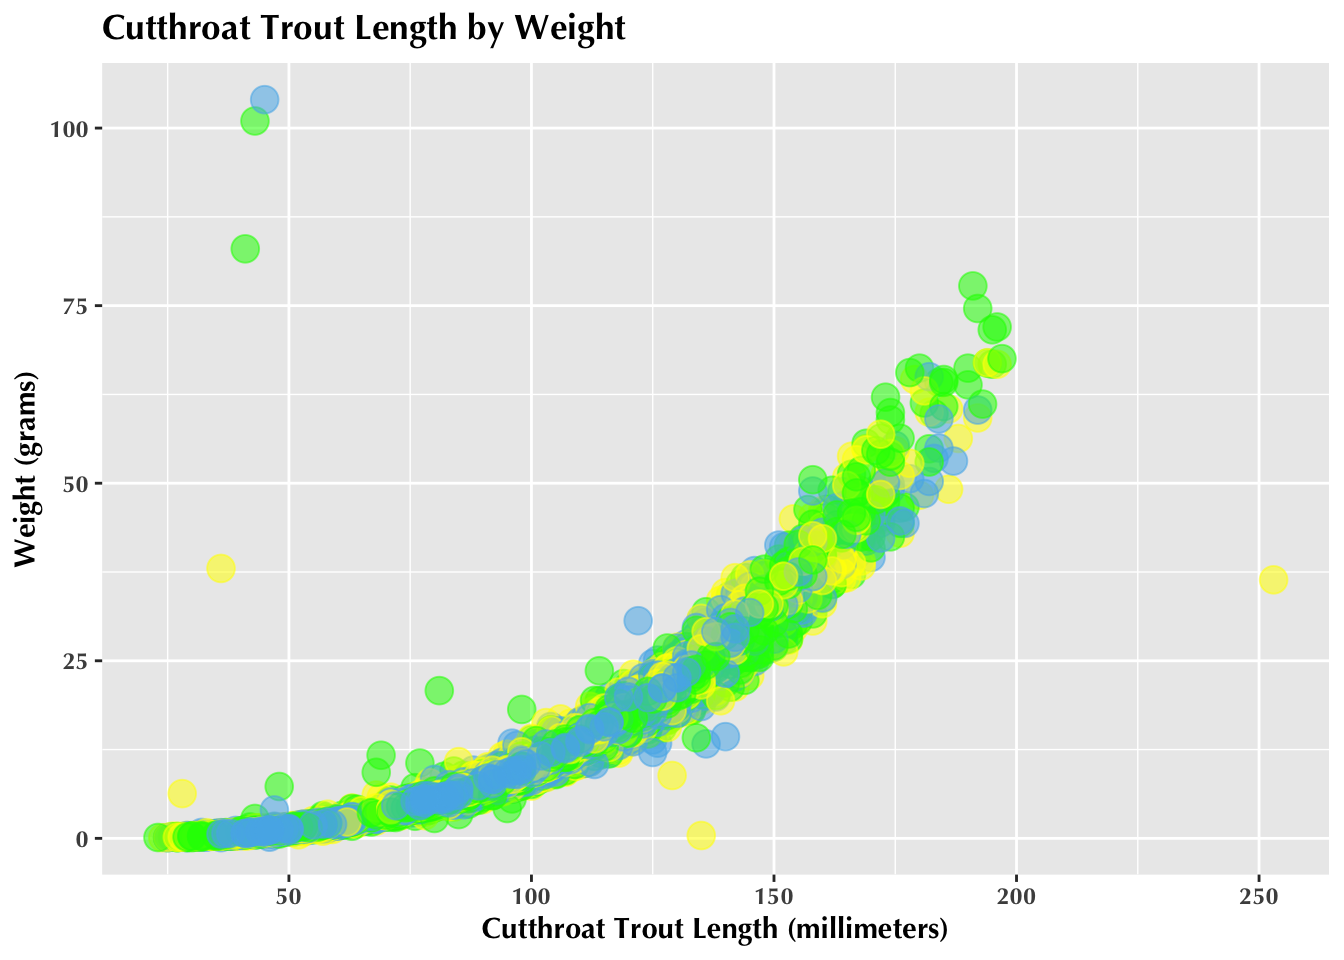
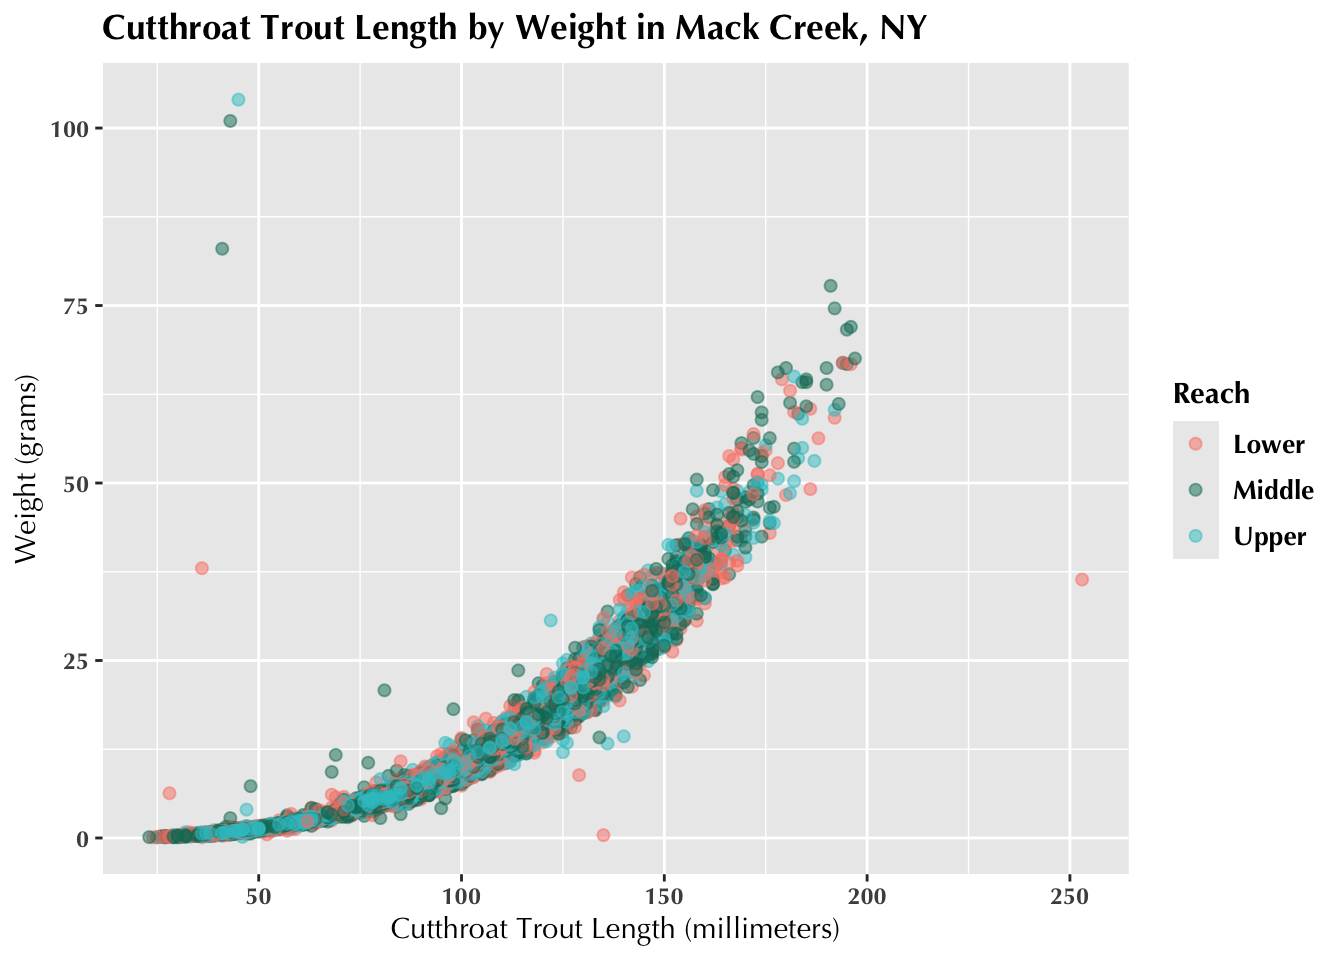
played around with some of the plot settings

diff --git a/docs/EDS221_Day2_Tasks_P2.html b/docs/EDS221_Day2_Tasks_P2.html
@@ -132,10 +132,14 @@ The following objects are masked from 'package:stats':
 
     chisq.test, fisher.test</code></pre>
 </div>
+<div class="sourceCode cell-code" id="cb7"><pre class="sourceCode r code-with-copy"><code class="sourceCode r"><span id="cb7-1"><a href="#cb7-1" aria-hidden="true" tabindex="-1"></a><span class="fu">library</span>(extrafont)</span></code><button title="Copy to Clipboard" class="code-copy-button"><i class="bi"></i></button></pre></div>
+<div class="cell-output cell-output-stderr">
+<pre><code>Registering fonts with R</code></pre>
+</div>
 </div>
 <div class="cell">
-<div class="sourceCode cell-code" id="cb7"><pre class="sourceCode r code-with-copy"><code class="sourceCode r"><span id="cb7-1"><a href="#cb7-1" aria-hidden="true" tabindex="-1"></a><span class="co"># Load in data</span></span>
-<span id="cb7-2"><a href="#cb7-2" aria-hidden="true" tabindex="-1"></a>mack_verts <span class="ot">&lt;-</span> <span class="fu">read_csv</span>(here<span class="sc">::</span><span class="fu">here</span>(<span class="st">"data"</span>, <span class="st">"AS00601.csv"</span>))</span></code><button title="Copy to Clipboard" class="code-copy-button"><i class="bi"></i></button></pre></div>
+<div class="sourceCode cell-code" id="cb9"><pre class="sourceCode r code-with-copy"><code class="sourceCode r"><span id="cb9-1"><a href="#cb9-1" aria-hidden="true" tabindex="-1"></a><span class="co"># Load in data</span></span>
+<span id="cb9-2"><a href="#cb9-2" aria-hidden="true" tabindex="-1"></a>mack_verts <span class="ot">&lt;-</span> <span class="fu">read_csv</span>(here<span class="sc">::</span><span class="fu">here</span>(<span class="st">"data"</span>, <span class="st">"AS00601.csv"</span>))</span></code><button title="Copy to Clipboard" class="code-copy-button"><i class="bi"></i></button></pre></div>
 <div class="cell-output cell-output-stderr">
 <pre><code>Rows: 32209 Columns: 18
 ── Column specification ────────────────────────────────────────────────────────
@@ -147,7 +151,7 @@ date (1): SAMPLEDATE
 ℹ Use `spec()` to retrieve the full column specification for this data.
 ℹ Specify the column types or set `show_col_types = FALSE` to quiet this message.</code></pre>
 </div>
-<div class="sourceCode cell-code" id="cb9"><pre class="sourceCode r code-with-copy"><code class="sourceCode r"><span id="cb9-1"><a href="#cb9-1" aria-hidden="true" tabindex="-1"></a>mack_verts</span></code><button title="Copy to Clipboard" class="code-copy-button"><i class="bi"></i></button></pre></div>
+<div class="sourceCode cell-code" id="cb11"><pre class="sourceCode r code-with-copy"><code class="sourceCode r"><span id="cb11-1"><a href="#cb11-1" aria-hidden="true" tabindex="-1"></a>mack_verts</span></code><button title="Copy to Clipboard" class="code-copy-button"><i class="bi"></i></button></pre></div>
 <div class="cell-output cell-output-stdout">
 <pre><code># A tibble: 32,209 × 18
    DBCODE ENTITY  YEAR SITECODE SECTION REACH  PASS UNITNUM UNITTYPE VERT_INDEX
@@ -166,23 +170,23 @@ date (1): SAMPLEDATE
 # ℹ 8 more variables: PITNUMBER &lt;dbl&gt;, SPECIES &lt;chr&gt;, LENGTH1 &lt;dbl&gt;,
 #   LENGTH2 &lt;dbl&gt;, WEIGHT &lt;dbl&gt;, CLIP &lt;chr&gt;, SAMPLEDATE &lt;date&gt;, NOTES &lt;chr&gt;</code></pre>
 </div>
-<div class="sourceCode cell-code" id="cb11"><pre class="sourceCode r code-with-copy"><code class="sourceCode r"><span id="cb11-1"><a href="#cb11-1" aria-hidden="true" tabindex="-1"></a><span class="co"># Clean names</span></span>
-<span id="cb11-2"><a href="#cb11-2" aria-hidden="true" tabindex="-1"></a>mack_verts <span class="ot">&lt;-</span> mack_verts <span class="sc">%&gt;%</span> <span class="fu">clean_names</span>() </span></code><button title="Copy to Clipboard" class="code-copy-button"><i class="bi"></i></button></pre></div>
+<div class="sourceCode cell-code" id="cb13"><pre class="sourceCode r code-with-copy"><code class="sourceCode r"><span id="cb13-1"><a href="#cb13-1" aria-hidden="true" tabindex="-1"></a><span class="co"># Clean names</span></span>
+<span id="cb13-2"><a href="#cb13-2" aria-hidden="true" tabindex="-1"></a>mack_verts <span class="ot">&lt;-</span> mack_verts <span class="sc">%&gt;%</span> <span class="fu">clean_names</span>() </span></code><button title="Copy to Clipboard" class="code-copy-button"><i class="bi"></i></button></pre></div>
 </div>
 <div class="cell">
-<div class="sourceCode cell-code" id="cb12"><pre class="sourceCode r code-with-copy"><code class="sourceCode r"><span id="cb12-1"><a href="#cb12-1" aria-hidden="true" tabindex="-1"></a><span class="co"># Mess around with the data</span></span>
-<span id="cb12-2"><a href="#cb12-2" aria-hidden="true" tabindex="-1"></a>mc_wt_5 <span class="ot">&lt;-</span> mack_verts<span class="sc">$</span>weight[<span class="dv">5</span>]</span>
-<span id="cb12-3"><a href="#cb12-3" aria-hidden="true" tabindex="-1"></a>mc_wt_5</span></code><button title="Copy to Clipboard" class="code-copy-button"><i class="bi"></i></button></pre></div>
+<div class="sourceCode cell-code" id="cb14"><pre class="sourceCode r code-with-copy"><code class="sourceCode r"><span id="cb14-1"><a href="#cb14-1" aria-hidden="true" tabindex="-1"></a><span class="co"># Mess around with the data</span></span>
+<span id="cb14-2"><a href="#cb14-2" aria-hidden="true" tabindex="-1"></a>mc_wt_5 <span class="ot">&lt;-</span> mack_verts<span class="sc">$</span>weight[<span class="dv">5</span>]</span>
+<span id="cb14-3"><a href="#cb14-3" aria-hidden="true" tabindex="-1"></a>mc_wt_5</span></code><button title="Copy to Clipboard" class="code-copy-button"><i class="bi"></i></button></pre></div>
 <div class="cell-output cell-output-stdout">
 <pre><code>[1] 6.9</code></pre>
 </div>
-<div class="sourceCode cell-code" id="cb14"><pre class="sourceCode r code-with-copy"><code class="sourceCode r"><span id="cb14-1"><a href="#cb14-1" aria-hidden="true" tabindex="-1"></a>mc_length_8_20 <span class="ot">&lt;-</span> mack_verts<span class="sc">$</span>length1[(<span class="dv">8</span><span class="sc">:</span><span class="dv">20</span>)]</span>
-<span id="cb14-2"><a href="#cb14-2" aria-hidden="true" tabindex="-1"></a>mc_length_8_20</span></code><button title="Copy to Clipboard" class="code-copy-button"><i class="bi"></i></button></pre></div>
+<div class="sourceCode cell-code" id="cb16"><pre class="sourceCode r code-with-copy"><code class="sourceCode r"><span id="cb16-1"><a href="#cb16-1" aria-hidden="true" tabindex="-1"></a>mc_length_8_20 <span class="ot">&lt;-</span> mack_verts<span class="sc">$</span>length1[(<span class="dv">8</span><span class="sc">:</span><span class="dv">20</span>)]</span>
+<span id="cb16-2"><a href="#cb16-2" aria-hidden="true" tabindex="-1"></a>mc_length_8_20</span></code><button title="Copy to Clipboard" class="code-copy-button"><i class="bi"></i></button></pre></div>
 <div class="cell-output cell-output-stdout">
 <pre><code> [1] 131 103 117 100 127  99 111 149 102  53  58  58 105</code></pre>
 </div>
-<div class="sourceCode cell-code" id="cb16"><pre class="sourceCode r code-with-copy"><code class="sourceCode r"><span id="cb16-1"><a href="#cb16-1" aria-hidden="true" tabindex="-1"></a>mc_dates <span class="ot">&lt;-</span> mack_verts<span class="sc">$</span>sampledate</span>
-<span id="cb16-2"><a href="#cb16-2" aria-hidden="true" tabindex="-1"></a>mc_dates</span></code><button title="Copy to Clipboard" class="code-copy-button"><i class="bi"></i></button></pre></div>
+<div class="sourceCode cell-code" id="cb18"><pre class="sourceCode r code-with-copy"><code class="sourceCode r"><span id="cb18-1"><a href="#cb18-1" aria-hidden="true" tabindex="-1"></a>mc_dates <span class="ot">&lt;-</span> mack_verts<span class="sc">$</span>sampledate</span>
+<span id="cb18-2"><a href="#cb18-2" aria-hidden="true" tabindex="-1"></a>mc_dates</span></code><button title="Copy to Clipboard" class="code-copy-button"><i class="bi"></i></button></pre></div>
 <div class="cell-output cell-output-stdout">
 <pre><code>    [1] "1987-10-07" "1987-10-07" "1987-10-07" "1987-10-07" "1987-10-07"
     [6] "1987-10-07" "1987-10-07" "1987-10-07" "1987-10-07" "1987-10-07"
@@ -6631,9 +6635,9 @@ date (1): SAMPLEDATE
 <section id="create-a-salamander-plot-from-subset" class="level2">
 <h2 class="anchored" data-anchor-id="create-a-salamander-plot-from-subset">Create a salamander plot from subset</h2>
 <div class="cell">
-<div class="sourceCode cell-code" id="cb18"><pre class="sourceCode r code-with-copy"><code class="sourceCode r"><span id="cb18-1"><a href="#cb18-1" aria-hidden="true" tabindex="-1"></a><span class="co"># Subset the data set</span></span>
-<span id="cb18-2"><a href="#cb18-2" aria-hidden="true" tabindex="-1"></a>mc_salamanders <span class="ot">&lt;-</span> <span class="fu">subset</span>(mack_verts, species<span class="sc">==</span><span class="st">"DITE"</span>)</span>
-<span id="cb18-3"><a href="#cb18-3" aria-hidden="true" tabindex="-1"></a>mc_salamanders</span></code><button title="Copy to Clipboard" class="code-copy-button"><i class="bi"></i></button></pre></div>
+<div class="sourceCode cell-code" id="cb20"><pre class="sourceCode r code-with-copy"><code class="sourceCode r"><span id="cb20-1"><a href="#cb20-1" aria-hidden="true" tabindex="-1"></a><span class="co"># Subset the data set</span></span>
+<span id="cb20-2"><a href="#cb20-2" aria-hidden="true" tabindex="-1"></a>mc_salamanders <span class="ot">&lt;-</span> <span class="fu">subset</span>(mack_verts, species<span class="sc">==</span><span class="st">"DITE"</span>)</span>
+<span id="cb20-3"><a href="#cb20-3" aria-hidden="true" tabindex="-1"></a>mc_salamanders</span></code><button title="Copy to Clipboard" class="code-copy-button"><i class="bi"></i></button></pre></div>
 <div class="cell-output cell-output-stdout">
 <pre><code># A tibble: 11,758 × 18
    dbcode entity  year sitecode section reach  pass unitnum unittype vert_index
@@ -6652,10 +6656,10 @@ date (1): SAMPLEDATE
 # ℹ 8 more variables: pitnumber &lt;dbl&gt;, species &lt;chr&gt;, length1 &lt;dbl&gt;,
 #   length2 &lt;dbl&gt;, weight &lt;dbl&gt;, clip &lt;chr&gt;, sampledate &lt;date&gt;, notes &lt;chr&gt;</code></pre>
 </div>
-<div class="sourceCode cell-code" id="cb20"><pre class="sourceCode r code-with-copy"><code class="sourceCode r"><span id="cb20-1"><a href="#cb20-1" aria-hidden="true" tabindex="-1"></a><span class="co"># Plot the salamanders</span></span>
-<span id="cb20-2"><a href="#cb20-2" aria-hidden="true" tabindex="-1"></a><span class="fu">ggplot</span>(<span class="at">data=</span>mc_salamanders, <span class="fu">aes</span>(<span class="at">x =</span> length1, <span class="at">y =</span> weight)) <span class="sc">+</span></span>
-<span id="cb20-3"><a href="#cb20-3" aria-hidden="true" tabindex="-1"></a>  <span class="fu">geom_point</span>(<span class="fu">aes</span>(<span class="at">size =</span> <span class="fl">2.5</span>, <span class="at">alpha =</span> .<span class="dv">50</span>, <span class="at">color =</span> <span class="st">"orange"</span>)) <span class="sc">+</span></span>
-<span id="cb20-4"><a href="#cb20-4" aria-hidden="true" tabindex="-1"></a>  <span class="fu">labs</span>(<span class="at">title=</span> <span class="st">"Giant Pacific Salamander Snout Length vs Weight"</span>, <span class="at">x =</span> <span class="st">"Snought-Vent Length (millimeters)"</span>, <span class="at">y =</span> <span class="st">"Weight (grams)"</span>) <span class="sc">+</span> <span class="fu">theme</span>(<span class="at">legend.position=</span><span class="st">"none"</span>)</span></code><button title="Copy to Clipboard" class="code-copy-button"><i class="bi"></i></button></pre></div>
+<div class="sourceCode cell-code" id="cb22"><pre class="sourceCode r code-with-copy"><code class="sourceCode r"><span id="cb22-1"><a href="#cb22-1" aria-hidden="true" tabindex="-1"></a><span class="co"># Plot the salamanders</span></span>
+<span id="cb22-2"><a href="#cb22-2" aria-hidden="true" tabindex="-1"></a><span class="fu">ggplot</span>(<span class="at">data=</span>mc_salamanders, <span class="fu">aes</span>(<span class="at">x =</span> length1, <span class="at">y =</span> weight)) <span class="sc">+</span></span>
+<span id="cb22-3"><a href="#cb22-3" aria-hidden="true" tabindex="-1"></a>  <span class="fu">geom_point</span>(<span class="fu">aes</span>(<span class="at">size =</span> <span class="fl">2.5</span>, <span class="at">alpha =</span> .<span class="dv">50</span>, <span class="at">color =</span> <span class="st">"orange"</span>)) <span class="sc">+</span></span>
+<span id="cb22-4"><a href="#cb22-4" aria-hidden="true" tabindex="-1"></a>  <span class="fu">labs</span>(<span class="at">title=</span> <span class="st">"Giant Pacific Salamander Snout Length vs Weight"</span>, <span class="at">x =</span> <span class="st">"Snought-Vent Length (millimeters)"</span>, <span class="at">y =</span> <span class="st">"Weight (grams)"</span>) <span class="sc">+</span> <span class="fu">theme</span>(<span class="at">legend.position=</span><span class="st">"none"</span>)</span></code><button title="Copy to Clipboard" class="code-copy-button"><i class="bi"></i></button></pre></div>
 <div class="cell-output cell-output-stderr">
 <pre><code>Warning: Removed 5429 rows containing missing values or values outside the scale range
 (`geom_point()`).</code></pre>
@@ -6672,9 +6676,9 @@ date (1): SAMPLEDATE
 <section id="create-a-cutthroat-plot-from-subset" class="level2">
 <h2 class="anchored" data-anchor-id="create-a-cutthroat-plot-from-subset">Create a cutthroat plot from subset</h2>
 <div class="cell">
-<div class="sourceCode cell-code" id="cb22"><pre class="sourceCode r code-with-copy"><code class="sourceCode r"><span id="cb22-1"><a href="#cb22-1" aria-hidden="true" tabindex="-1"></a><span class="co"># Subset the data set</span></span>
-<span id="cb22-2"><a href="#cb22-2" aria-hidden="true" tabindex="-1"></a>mc_trout <span class="ot">&lt;-</span> <span class="fu">subset</span>(mack_verts, species<span class="sc">==</span><span class="st">"ONCL"</span>)</span>
-<span id="cb22-3"><a href="#cb22-3" aria-hidden="true" tabindex="-1"></a>mc_trout</span></code><button title="Copy to Clipboard" class="code-copy-button"><i class="bi"></i></button></pre></div>
+<div class="sourceCode cell-code" id="cb24"><pre class="sourceCode r code-with-copy"><code class="sourceCode r"><span id="cb24-1"><a href="#cb24-1" aria-hidden="true" tabindex="-1"></a><span class="co"># Subset the data set</span></span>
+<span id="cb24-2"><a href="#cb24-2" aria-hidden="true" tabindex="-1"></a>mc_trout <span class="ot">&lt;-</span> <span class="fu">subset</span>(mack_verts, species<span class="sc">==</span><span class="st">"ONCL"</span>)</span>
+<span id="cb24-3"><a href="#cb24-3" aria-hidden="true" tabindex="-1"></a>mc_trout</span></code><button title="Copy to Clipboard" class="code-copy-button"><i class="bi"></i></button></pre></div>
 <div class="cell-output cell-output-stdout">
 <pre><code># A tibble: 20,433 × 18
    dbcode entity  year sitecode section reach  pass unitnum unittype vert_index
@@ -6693,12 +6697,13 @@ date (1): SAMPLEDATE
 # ℹ 8 more variables: pitnumber &lt;dbl&gt;, species &lt;chr&gt;, length1 &lt;dbl&gt;,
 #   length2 &lt;dbl&gt;, weight &lt;dbl&gt;, clip &lt;chr&gt;, sampledate &lt;date&gt;, notes &lt;chr&gt;</code></pre>
 </div>
-<div class="sourceCode cell-code" id="cb24"><pre class="sourceCode r code-with-copy"><code class="sourceCode r"><span id="cb24-1"><a href="#cb24-1" aria-hidden="true" tabindex="-1"></a><span class="co"># Plot the salamanders</span></span>
-<span id="cb24-2"><a href="#cb24-2" aria-hidden="true" tabindex="-1"></a><span class="fu">ggplot</span>(<span class="at">data=</span>mc_trout, <span class="fu">aes</span>(<span class="at">x =</span> length1, <span class="at">y =</span> weight)) <span class="sc">+</span></span>
-<span id="cb24-3"><a href="#cb24-3" aria-hidden="true" tabindex="-1"></a>  <span class="fu">geom_point</span>(<span class="fu">aes</span>(<span class="at">size =</span> <span class="fl">2.5</span>, <span class="at">alpha =</span> .<span class="dv">50</span>, <span class="at">color =</span> reach)) <span class="sc">+</span></span>
-<span id="cb24-4"><a href="#cb24-4" aria-hidden="true" tabindex="-1"></a><span class="fu">scale_color_manual</span>(<span class="at">values=</span><span class="fu">c</span>(<span class="st">"yellow"</span>, <span class="st">"green"</span>, <span class="st">"#56B4E9"</span>))<span class="sc">+</span> </span>
-<span id="cb24-5"><a href="#cb24-5" aria-hidden="true" tabindex="-1"></a>  <span class="fu">labs</span>(<span class="at">title=</span> <span class="st">"Cutthroat Trout Length by Weight"</span>, <span class="at">x =</span> <span class="st">"Cutthroat Trout Length (millimeters)"</span>, <span class="at">y =</span> <span class="st">"Weight (grams)"</span>) <span class="sc">+</span> <span class="fu">theme</span>(<span class="at">legend.position=</span><span class="st">"none"</span>) <span class="sc">+</span></span>
-<span id="cb24-6"><a href="#cb24-6" aria-hidden="true" tabindex="-1"></a>  <span class="fu">theme</span>(<span class="at">text =</span> <span class="fu">element_text</span>(<span class="at">family =</span> <span class="st">"Optima-Bold"</span>))</span></code><button title="Copy to Clipboard" class="code-copy-button"><i class="bi"></i></button></pre></div>
+<div class="sourceCode cell-code" id="cb26"><pre class="sourceCode r code-with-copy"><code class="sourceCode r"><span id="cb26-1"><a href="#cb26-1" aria-hidden="true" tabindex="-1"></a><span class="co"># Plot the salamanders with some complicated settings</span></span>
+<span id="cb26-2"><a href="#cb26-2" aria-hidden="true" tabindex="-1"></a><span class="fu">ggplot</span>(<span class="at">data=</span>mc_trout, <span class="fu">aes</span>(<span class="at">x =</span> length1, <span class="at">y =</span> weight)) <span class="sc">+</span></span>
+<span id="cb26-3"><a href="#cb26-3" aria-hidden="true" tabindex="-1"></a>  <span class="fu">geom_point</span>(<span class="fu">aes</span>(<span class="at">color =</span> reach), <span class="at">size =</span> <span class="fl">1.8</span>, <span class="at">alpha =</span> .<span class="dv">50</span>) <span class="sc">+</span></span>
+<span id="cb26-4"><a href="#cb26-4" aria-hidden="true" tabindex="-1"></a><span class="fu">scale_color_manual</span>(<span class="st">'Reach'</span>,<span class="at">values=</span><span class="fu">c</span>(<span class="st">"#FA8072"</span>, <span class="st">"#0e7965"</span>, <span class="st">"#34c2c9"</span>), <span class="at">labels=</span><span class="fu">c</span>(<span class="st">"Lower"</span>,<span class="st">"Middle"</span>,<span class="st">"Upper"</span>))<span class="sc">+</span> </span>
+<span id="cb26-5"><a href="#cb26-5" aria-hidden="true" tabindex="-1"></a>  <span class="fu">labs</span>(<span class="at">title=</span> <span class="st">"Cutthroat Trout Length by Weight in Mack Creek, NY"</span>, <span class="at">x =</span> <span class="st">"Cutthroat Trout Length (millimeters)"</span>, <span class="at">y =</span> <span class="st">"Weight (grams)"</span>)<span class="sc">+</span></span>
+<span id="cb26-6"><a href="#cb26-6" aria-hidden="true" tabindex="-1"></a>  <span class="fu">theme</span>(<span class="at">legend.position=</span><span class="st">"right"</span>)<span class="sc">+</span></span>
+<span id="cb26-7"><a href="#cb26-7" aria-hidden="true" tabindex="-1"></a>  <span class="fu">theme</span>(<span class="at">text =</span> <span class="fu">element_text</span>(<span class="at">family =</span> <span class="st">'Optima-Bold'</span>),<span class="at">axis.title =</span> <span class="fu">element_text</span>(<span class="at">family =</span> <span class="st">'Optima'</span>), <span class="at">legend.text =</span> <span class="fu">element_text</span>(<span class="at">size =</span> <span class="dv">10</span>))</span></code><button title="Copy to Clipboard" class="code-copy-button"><i class="bi"></i></button></pre></div>
 <div class="cell-output cell-output-stderr">
 <pre><code>Warning: Removed 7841 rows containing missing values or values outside the scale range
 (`geom_point()`).</code></pre>
@@ -6710,7 +6715,7 @@ date (1): SAMPLEDATE
 </figure>
 </div>
 </div>
-<div class="sourceCode cell-code" id="cb26"><pre class="sourceCode r code-with-copy"><code class="sourceCode r"><span id="cb26-1"><a href="#cb26-1" aria-hidden="true" tabindex="-1"></a><span class="fu">ggsave</span>(here<span class="sc">::</span><span class="fu">here</span>( <span class="st">"figs"</span>,<span class="st">"Trout_Fig.jpg"</span>), <span class="at">height =</span> <span class="dv">6</span>, <span class="at">width =</span> <span class="dv">7</span>)</span></code><button title="Copy to Clipboard" class="code-copy-button"><i class="bi"></i></button></pre></div>
+<div class="sourceCode cell-code" id="cb28"><pre class="sourceCode r code-with-copy"><code class="sourceCode r"><span id="cb28-1"><a href="#cb28-1" aria-hidden="true" tabindex="-1"></a><span class="fu">ggsave</span>(here<span class="sc">::</span><span class="fu">here</span>( <span class="st">"figs"</span>,<span class="st">"Trout_Fig.jpg"</span>), <span class="at">height =</span> <span class="dv">4</span>, <span class="at">width =</span> <span class="dv">7</span>)</span></code><button title="Copy to Clipboard" class="code-copy-button"><i class="bi"></i></button></pre></div>
 <div class="cell-output cell-output-stderr">
 <pre><code>Warning: Removed 7841 rows containing missing values or values outside the scale range
 (`geom_point()`).</code></pre>
